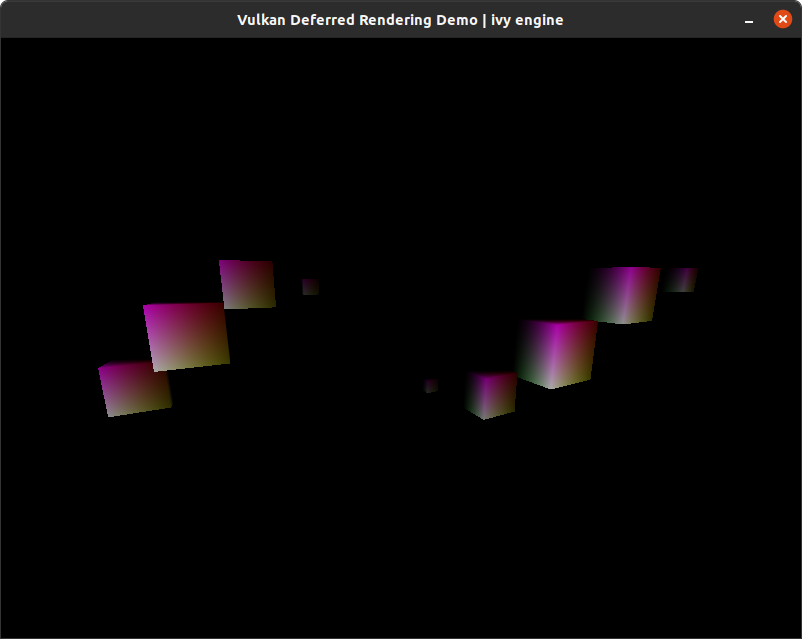
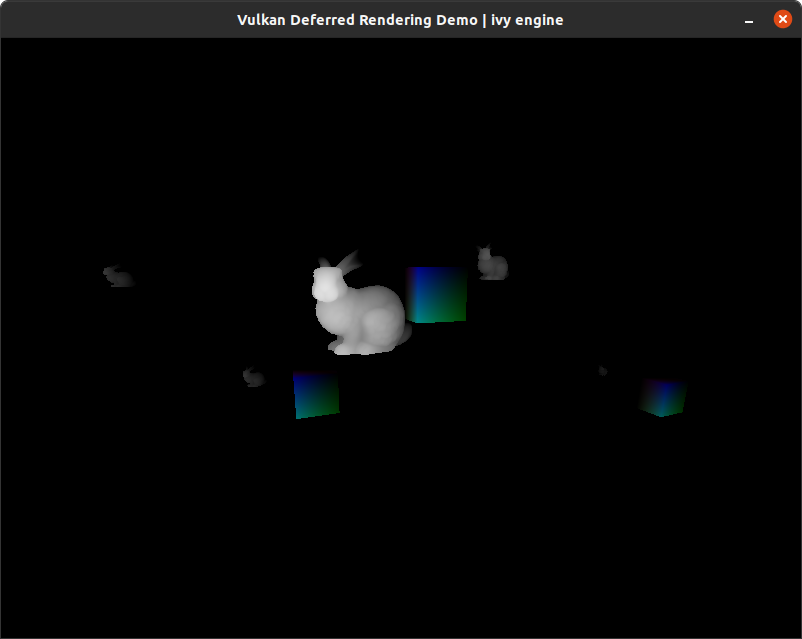
Add assimp and model loading

diff --git a/src/ivy/resources/resource_manager.cpp b/src/ivy/resources/resource_manager.cpp
@@ -1,5 +1,8 @@
 #include "resource_manager.h"
 #include "ivy/log.h"
+#include <assimp/Importer.hpp>
+#include <assimp/scene.h>
+#include <assimp/postprocess.h>
 #include <filesystem>
 
 namespace ivy {
@@ -9,21 +12,10 @@ ResourceManager::ResourceManager(gfx::RenderDevice &render_device, const std::st
     if (!std::filesystem::is_directory(resourceDirectory_)) {
         Log::fatal("Invalid resource directory: '%s'", resourceDirectory_.c_str());
     }
-}
 
-void ResourceManager::loadResource(const std::string &resource_path) {
-    if (!std::filesystem::is_regular_file(resourceDirectory_ + resource_path)) {
-        Log::fatal("Invalid resource location: '%s'",
-                   std::filesystem::path(resourceDirectory_ + resource_path).lexically_normal().c_str());
-    }
-
-    if (meshDatas_.find(resource_path) != meshDatas_.end()) {
-        Log::fatal("Tried to load already loaded resource: '%s'",  resource_path.c_str());
-    }
-
-    // TODO: actually load instead of hard coding
-
-    std::vector<gfx::VertexP3C3> vertices = {
+    // Load default cube
+    meshDatas_.emplace("cube", gfx::Geometry(device_,
+    std::vector<gfx::VertexP3C3> {
         gfx::VertexP3C3({-0.5f, -0.5f,  0.5f}, {0.0f, 1.0f, 1.0f}),
         gfx::VertexP3C3({ 0.5f, -0.5f,  0.5f}, {0.0f, 1.0f, 0.0f}),
         gfx::VertexP3C3({-0.5f,  0.5f,  0.5f}, {0.0f, 0.0f, 1.0f}),
@@ -33,15 +25,58 @@ void ResourceManager::loadResource(const std::string &resource_path) {
         gfx::VertexP3C3({ 0.5f,  0.5f, -0.5f}, {1.0f, 0.0f, 1.0f}),
         gfx::VertexP3C3({-0.5f, -0.5f, -0.5f}, {1.0f, 1.0f, 0.0f}),
         gfx::VertexP3C3({ 0.5f, -0.5f, -0.5f}, {1.0f, 1.0f, 1.0f}),
-    };
-    std::vector<u32> indices = {
+    }, std::vector<u32> {
         0, 1, 2, 2, 1, 3,
         2, 3, 4, 4, 3, 5,
         4, 5, 6, 6, 5, 7,
         6, 7, 0, 0, 7, 1,
         1, 7, 3, 3, 7, 5,
         6, 0, 4, 4, 0, 2
-    };
+    }));
+}
+
+void ResourceManager::loadResource(const std::string &resource_path) {
+    std::filesystem::path filePath = std::filesystem::path(resourceDirectory_ + resource_path).lexically_normal();
+
+    if (!std::filesystem::is_regular_file(filePath)) {
+        Log::fatal("Invalid resource location: '%s'", filePath.c_str());
+    }
+
+    if (meshDatas_.find(resource_path) != meshDatas_.end()) {
+        Log::fatal("Tried to load already loaded resource: '%s'",  resource_path.c_str());
+    }
+
+    std::vector<gfx::VertexP3C3> vertices;
+    std::vector<u32> indices;
+
+    Assimp::Importer importer;
+    const aiScene *scene = importer.ReadFile(filePath.c_str(), aiProcess_Triangulate);
+    if (!scene) {
+        Log::fatal("Failed to read resource '%s': %s", filePath.c_str(), importer.GetErrorString());
+    }
+
+    // TODO: load multiple meshes per model, currently we just load the first one
+    for (u32 m = 0; m < scene->mNumMeshes; ++m) {
+        aiMesh *mesh = scene->mMeshes[m];
+
+        vertices.reserve(mesh->mNumVertices);
+        for (u32 v = 0; v < mesh->mNumVertices; ++v) {
+            vertices.emplace_back(gfx::VertexP3C3(
+                                      glm::vec3(mesh->mVertices[v].x, mesh->mVertices[v].y, mesh->mVertices[v].z),
+                                      glm::vec3(1)
+                                  ));
+        }
+
+        indices.reserve(mesh->mNumFaces * 3);
+        for (u32 f = 0; f < mesh->mNumFaces; ++f) {
+            aiFace face = mesh->mFaces[f];
+            for (u32 i = 0; i < face.mNumIndices; ++i) {
+                indices.emplace_back(face.mIndices[i]);
+            }
+        }
+
+        // TODO: material
+    }
 
     meshDatas_.emplace(resource_path, gfx::Geometry(device_, vertices, indices));
 }

diff --git a/src/ivy/graphics/geometry.h b/src/ivy/graphics/geometry.h
@@ -13,8 +13,7 @@ namespace ivy::gfx {
  */
 class Geometry {
 public:
-    template<typename T>
-    Geometry(RenderDevice &device, const std::vector<T> &vertices, const std::vector<u32> &indices)
+    template<typename T> Geometry(RenderDevice &device, const std::vector<T> &vertices, const std::vector<u32> &indices)
         : numVertices_(vertices.size()), numIndices_(indices.size()) {
         // Create vertex and index buffers
         vertexBuffer_ = device.createVertexBuffer(vertices.data(), sizeof(vertices[0]) * numVertices_);

diff --git a/src/ivy/engine.cpp b/src/ivy/engine.cpp
@@ -34,7 +34,8 @@ void Engine::run() {
     for (u32 i = 0; i < 10; ++i) {
         entities.emplace_back();
         entities.back().setComponent<Transform>();
-        entities.back().setComponent<Mesh>(resourceManager.getMesh("models/bunny.obj"));
+        entities.back().setComponent<Mesh>(resourceManager.getMesh(
+                i % 2 == 0 ? "models/bunny.obj" : "cube"));
     }
 
     // Main loop
